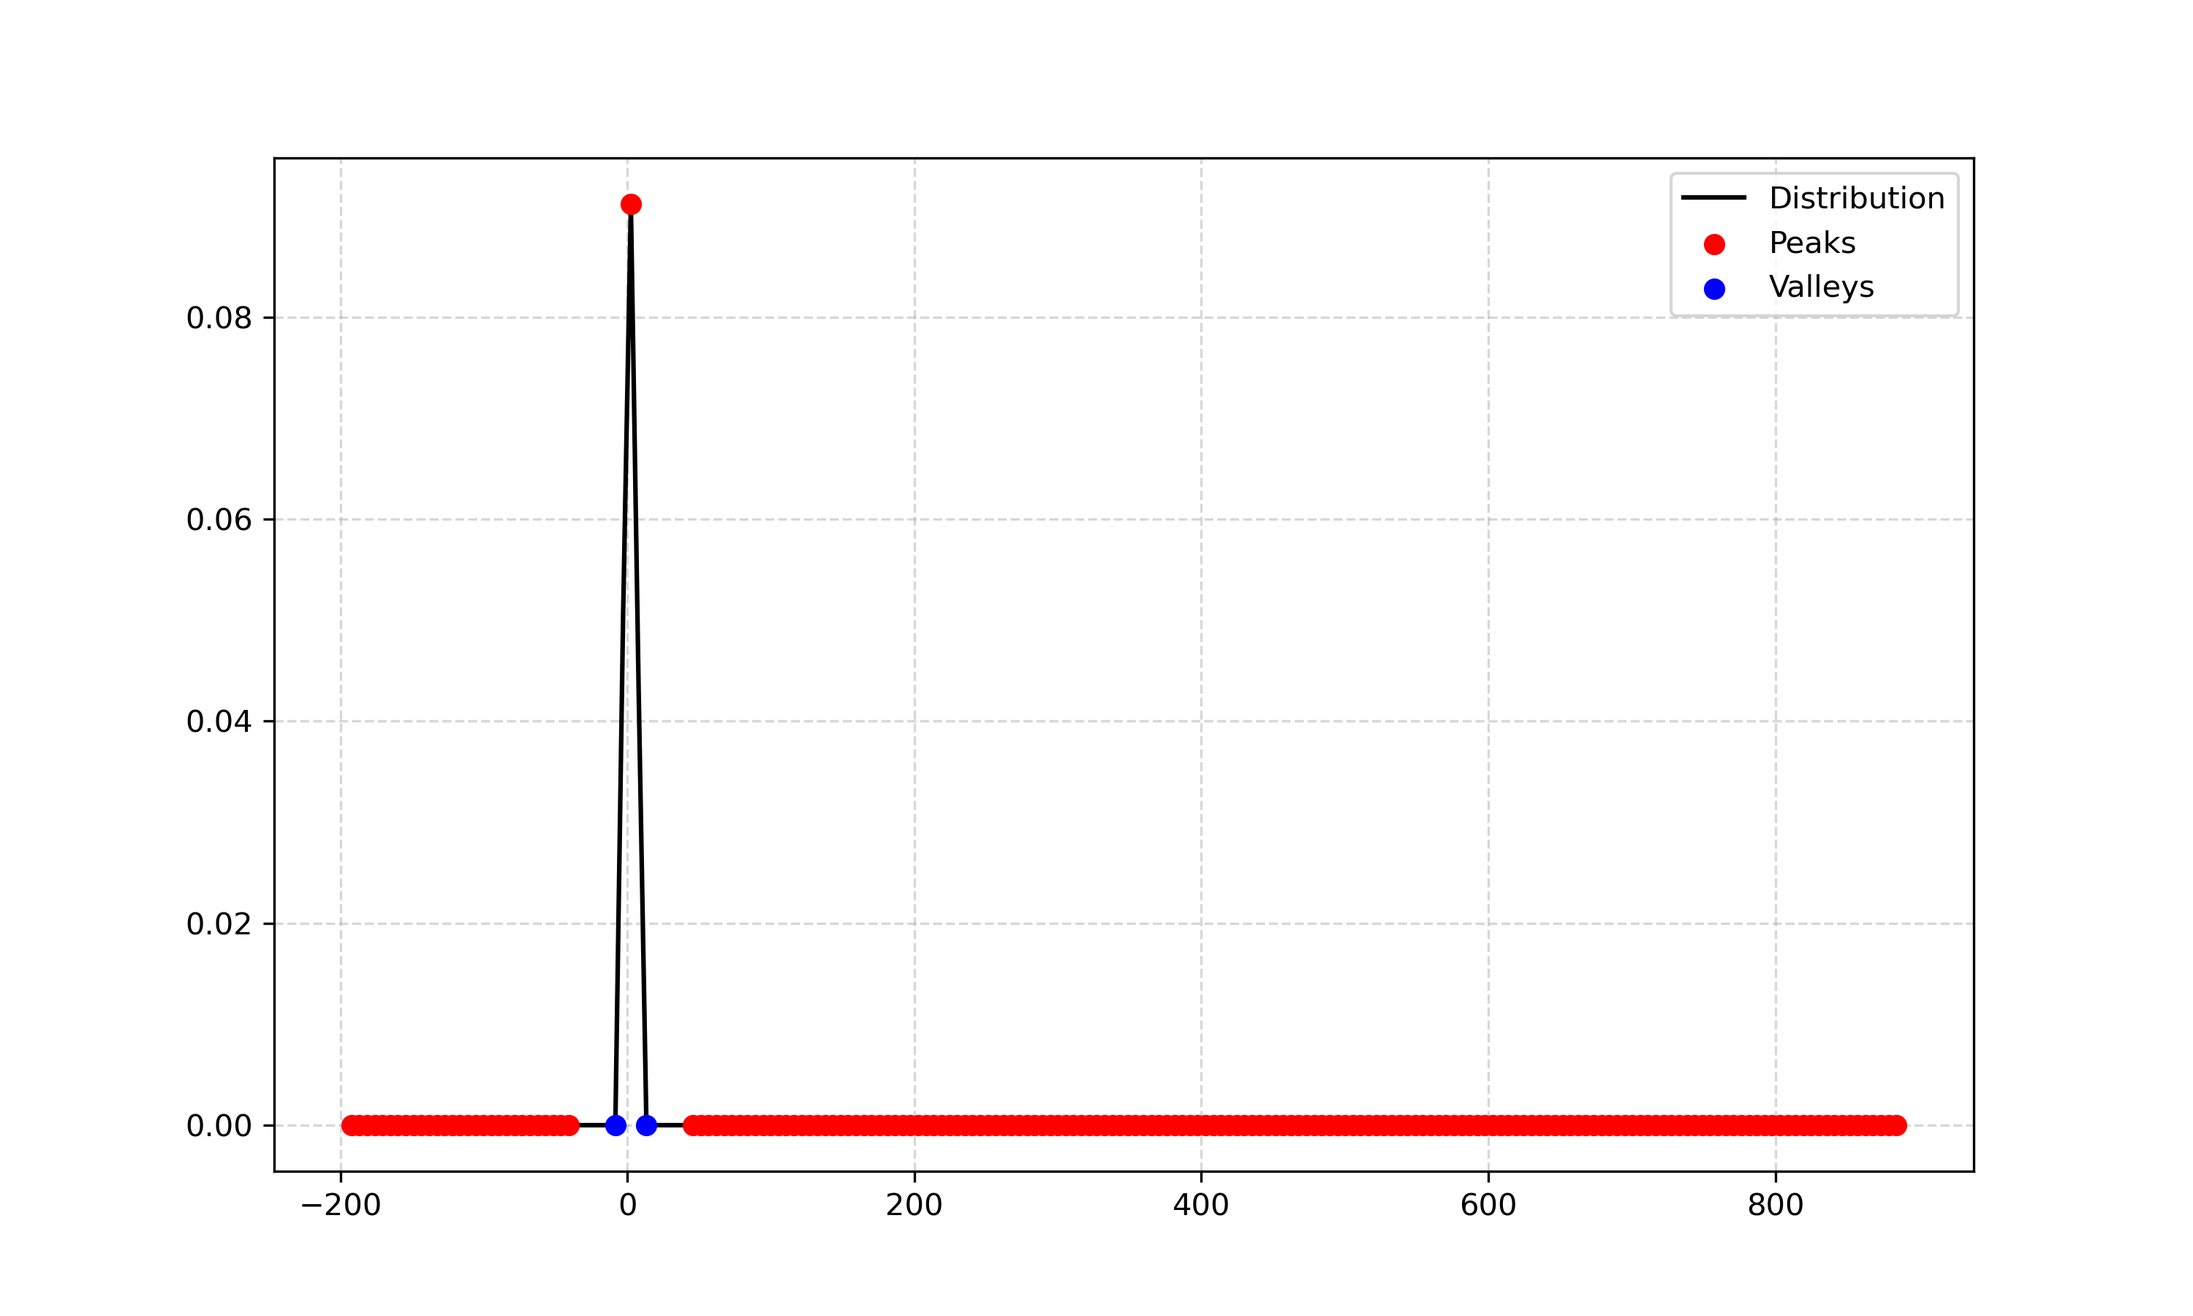
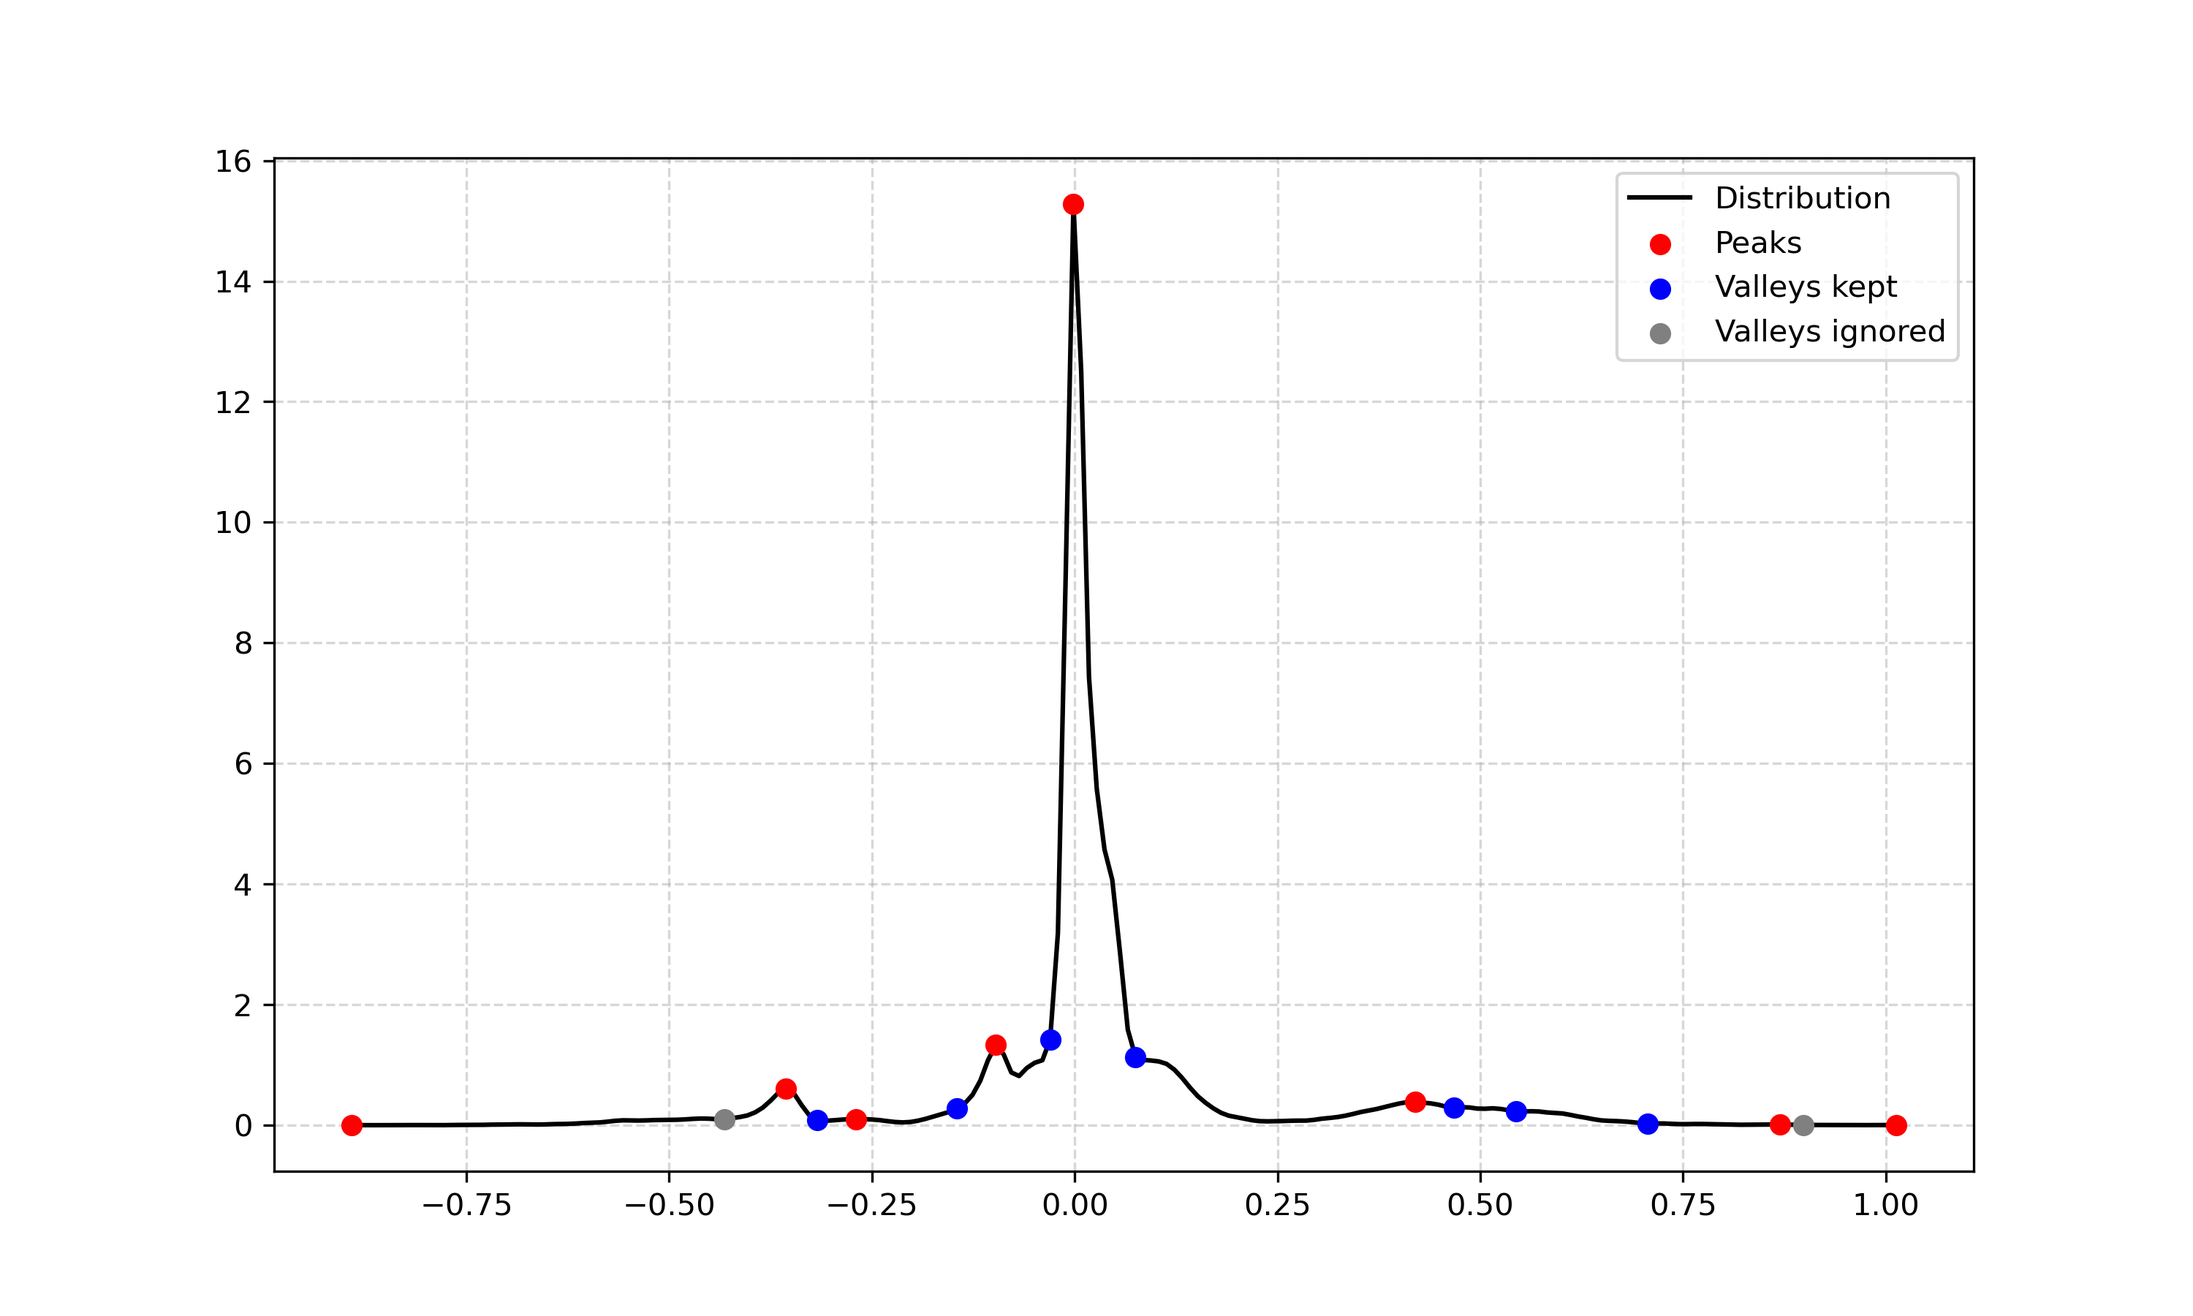
finalisation de l'algo - réglages à trouver pour valider performances

diff --git a/curvature_based_segmentation.py b/curvature_based_segmentation.py
@@ -8,6 +8,7 @@ import matplotlib.pyplot as plt
 from mpl_toolkits.mplot3d.art3d import Poly3DCollection
 from scipy.optimize import curve_fit
 from math import cos, sin, atan2
+import time
 
 #----------------------------------------------------------------------------------------------------------
 ## STEP 1 : Load STL File, Extract Vertices, their Normals, their 1-Ring Neighbours and the Mean Edge Length
@@ -134,10 +135,17 @@ def local_curvature(vertex, normal, neighbors, neighbor_normals):
     # Curve fitting to find k_max, k_min, phi_max
     def curvature_model(phi, k1, k2, phi1):
         return k1 * np.cos(phi - phi1)**2 + k2 * np.sin(phi - phi1)**2
-
-
-    res, _ = curve_fit(curvature_model, phii_list, ki_list, p0=[max(ki_list), min(ki_list), 0])
-    k_max, k_min, phi_max = res
+    try:
+        res, _ = curve_fit(
+            curvature_model,
+            phii_list,
+            ki_list,
+            p0=[max(ki_list), min(ki_list), 0],
+            maxfev=5000
+        )
+        k_max, k_min, phi_max = res
+    except Exception: # if curve fitting fails
+        k_max = max(ki_list)
 
     return k_max
 
@@ -156,8 +164,9 @@ def compute_curvatures(stl_mesh):
 
     return vertices, normalised_curvatures, index_map
 
-# Visualization of curvatures on the 3D mesh - triangles are colored according to the mean curvature of their vertices
-def plot_curvature_3d(stl_mesh):
+# Visualization of curvatures on the 3D mesh 
+# triangles are colored according to the mean curvature of their vertices
+def plot_curvature_3d_triangles(stl_mesh):
     vertices, curvatures, index_map = compute_curvatures(stl_mesh)
     v = np.array(vertices)
     k = np.array(curvatures)
@@ -187,6 +196,34 @@ def plot_curvature_3d(stl_mesh):
     cbar.set_label("Courbure principale normalisée (sans unité)")
 
     plt.show()
+# vertices are colored according to their curvature
+def plot_curvature_3d_vertices(stl_mesh):
+    # Calcul des courbures aux sommets
+    vertices, curvatures, _ = compute_curvatures(stl_mesh)
+    v = np.array(vertices)
+    k = np.array(curvatures)
+
+    # plot
+    cmap = plt.get_cmap("jet")
+    fig = plt.figure()
+    ax = fig.add_subplot(111, projection='3d')
+
+    # Coloration des sommets selon leur courbure
+    colors = cmap((k - k.min()) / (k.max() - k.min()))  # normalisation entre 0 et 1
+    ax.scatter(v[:,0], v[:,1], v[:,2], c=colors, s=10)  # s = taille des points
+
+    ax.set_xlim(v[:,0].min(), v[:,0].max())
+    ax.set_ylim(v[:,1].min(), v[:,1].max())
+    ax.set_zlim(v[:,2].min(), v[:,2].max())
+    ax.set_xlabel("X"); ax.set_ylabel("Y"); ax.set_zlabel("Z")
+
+    # Barre de couleur
+    mappable = plt.cm.ScalarMappable(cmap=cmap)
+    mappable.set_array(k)
+    cbar = plt.colorbar(mappable, ax=ax)
+    cbar.set_label("Courbure principale normalisée (sans unité)")
+
+    plt.show()
 
 #----------------------------------------------------------------------------------------------------------
 ## STEP 3 : Distribution and visualization of curvatures
@@ -205,6 +242,7 @@ def plot_curvature_distribution(curvatures, bins=50, filename="results/distibuti
 def kernel_estimation(curvatures, n_bins=50, h=0.01, filename="results/distribution_continuous.png"):
     curvatures = np.array(curvatures)
 
+    plot_curvature_distribution(curvatures, bins=n_bins, filename=f"results/distribution_discrete_n{n_bins}_h{h}.png")
     # discrete distribution over bins
     bin_edges = np.linspace(curvatures.min(), curvatures.max(), n_bins + 1)
     bin_centers = 0.5 * (bin_edges[:-1] + bin_edges[1:])
@@ -228,7 +266,7 @@ def kernel_estimation(curvatures, n_bins=50, h=0.01, filename="results/distribut
     return bin_centers, density
 
 # Analysis of the distribution : identification of peaks and valleys
-def analyze_distribution(bin_centers, density, window_size=10, n_bins=50, h=0.01):
+def analyze_distribution(curvatures, bin_centers, density, window_size=10, n_bins=50, h=0.01, min_density=0.02):
     n_bins = len(bin_centers)
 
     # Robust peaks detection : maximum in a window
@@ -297,35 +335,57 @@ def analyze_distribution(bin_centers, density, window_size=10, n_bins=50, h=0.01
             if distances[i] == np.max(distances[w_start:w_end]):
                 valleys.append(start + i)
 
+    # Filtering valleys based on minimum density
+    filtered_valleys = []
+    ignored_valleys = []
+    # première valley
+    if density[valleys[0]] >= min_density * density.max():
+        filtered_valleys.append(valleys[0])
+    else:
+        ignored_valleys.append(valleys[0])
+    # ajouts de toutes les valleys intermédiaires
+    for v in valleys[1:-1]:
+        filtered_valleys.append(v)
+    # dernière valley
+    if density[valleys[-1]] >= min_density * density.max():
+        filtered_valleys.append(valleys[-1])
+    else:
+        ignored_valleys.append(valleys[-1])
+
+
     # Visualisation of peaks and valleys
     plt.figure(figsize=(10, 6))
     plt.plot(bin_centers, density, color="black", label="Distribution")
+
     plt.scatter(bin_centers[peaks], density[peaks], color="red", label="Peaks", zorder=3)
-    plt.scatter(bin_centers[valleys], density[valleys], color="blue", label="Valleys", zorder=3)
+    plt.scatter(bin_centers[filtered_valleys], density[filtered_valleys], color="blue", label="Valleys kept", zorder=3)
+    ignored_valleys = [v for v in valleys if v not in filtered_valleys]
+    plt.scatter(bin_centers[ignored_valleys], density[ignored_valleys], color="grey", label="Valleys ignored", zorder=3)
+
     plt.legend()
     plt.grid(True, linestyle="--", alpha=0.5)
     plt.savefig(f"results/distribution_analysis_n{n_bins}_h{h}.png", dpi=300)
     plt.show()
 
-    return peaks, valleys, n_bins, h
+    return peaks, filtered_valleys, n_bins, h
 
 #----------------------------------------------------------------------------------------------------------
 ## STEP 4 : Segmentation of the Mesh Based on Curvature Thresholds
 # Automatic definition of curvature thresholds based on the distribution analysis, corresponding to the first and last valleys
-def thresholding(vertices, curvatures, n_bins=50, h=0.01, window_size=10):
+def thresholding(vertices, curvatures, n_bins=50, h=0.01, window_size=10, min_density=0.02):
     vertices = np.array(vertices)
     curvatures = np.array(curvatures)
 
     # Kernel estimation of the curvature distribution
     bin_centers, density = kernel_estimation(curvatures, n_bins=n_bins, h=h)
     # Detection of peaks and valleys
-    peaks, valleys, n_bins, h = analyze_distribution(bin_centers, density, window_size=window_size, n_bins=n_bins, h=h)
+    peaks, valleys, n_bins, h = analyze_distribution(curvatures, bin_centers, density, window_size=window_size, n_bins=n_bins, h=h, min_density=min_density)
     if len(valleys) < 2:
         raise ValueError("Pas assez de valleys.")
 
     # Thresholds based on the first and last valleys
-    first_valley_idx = valleys[1] # skip the artificial left valley
-    last_valley_idx = valleys[-2] # skip the artificial right valley
+    first_valley_idx = valleys[0] # we keep the 1st valley (artificial)
+    last_valley_idx = valleys[-1] # and the last valley
     threshold_low = bin_centers[first_valley_idx]
     threshold_high = bin_centers[last_valley_idx]
 
@@ -355,22 +415,29 @@ def thresholding(vertices, curvatures, n_bins=50, h=0.01, window_size=10):
     return labels, threshold_low, threshold_high 
 
 # Segmentation function, using a region growing algorithm
-def segmentation(stl_mesh, n_bins=50, h=0.01, window_size=10):
+def segmentation(stl_mesh, n_bins=50, h=0.01, window_size=10, min_density=0.02):
+    start_time = time.perf_counter()
     # Compute curvatures
     vertices, curvatures, index_map = compute_curvatures(stl_mesh)
     
     # Thresholding to label vertices as 'uniform' or 'edge'
-    labels, threshold_low, threshold_high = thresholding(vertices, curvatures, n_bins=n_bins, h=h, window_size=window_size)
+    labels, threshold_low, threshold_high = thresholding(vertices, curvatures, n_bins=n_bins, h=h, window_size=window_size, min_density=min_density)
 
     triangles = stl_mesh.vectors
     n_triangles = len(triangles)
+    # definition of area threshold for post-processing
+    def triangle_area(tri):
+        return 0.5 * np.linalg.norm(np.cross(tri[1] - tri[0], tri[2] - tri[0]))
+    triangle_areas = np.array([triangle_area(tri) for tri in triangles])
+    mean_triangle_area = np.mean(triangle_areas)
+    area_threshold = 20 * mean_triangle_area 
 
-    # Labelling triangles according to dominant vertex labels
+    # Labelling triangles according to vertex labels : labeled as "edge" if at least one vertex is labeled as "edge"
     triangle_labels = []
     for tri in triangles:
         indices = [index_map[tuple(v)] for v in tri]
         tri_vertex_labels = [labels[idx] for idx in indices]
-        if tri_vertex_labels.count("edge") > tri_vertex_labels.count("uniform"):
+        if tri_vertex_labels.count("edge") >= 1 :
             triangle_labels.append("edge")
         else:
             triangle_labels.append("uniform")
@@ -396,8 +463,8 @@ def segmentation(stl_mesh, n_bins=50, h=0.01, window_size=10):
     for t_idx in range(n_triangles):
         if triangle_labels[t_idx] != "uniform" or region_ids[t_idx] != -1:
             continue
-
-        # Iterative region growing using a stack
+        
+        # Region growing
         stack = [t_idx]
         while stack:
             curr = stack.pop()
@@ -410,22 +477,158 @@ def segmentation(stl_mesh, n_bins=50, h=0.01, window_size=10):
 
         current_region += 1
 
-    print(f"Nombre de régions uniform détectées : {current_region}")
+
+    # post-processing :  small regions merging (area < threshold = 20 * mean area)
+    region_ids_post = region_ids.copy()
+    unique_regions = np.unique(region_ids[region_ids >= 0])
+
+    for r in unique_regions:
+        tris = np.where(region_ids == r)[0]
+        area = triangle_areas[tris].sum()
+
+        if area < area_threshold:
+            neighbors = set()
+            for t in tris:
+                for n in triangle_neighbors[t]:
+                    if region_ids[n] != r and region_ids[n] != -1:
+                        neighbors.add(region_ids[n])
+
+            if len(neighbors) == 1:
+                # merge
+                target = neighbors.pop()
+                region_ids_post[tris] = target
+            else:
+                # suppression
+                region_ids_post[tris] = -1
+
+    region_ids = region_ids_post
+    current_region = len(np.unique(region_ids[region_ids >= 0]))
+
+    print(f"Nombre de régions après post-processing (avant érosion/dilatation) : {current_region}")
+
+    end_time = time.perf_counter()
+    print(f"Temps d'exécution : {end_time - start_time:.2f} s")
 
     # Visualization of regions
     cmap = plt.get_cmap("tab20")
-    colors = np.array([cmap(region_ids[t] % 20) if region_ids[t] != -1 else (1,0,0,1) for t in range(n_triangles)])
+    colors = []
+    for t in range(n_triangles):
+        if region_ids[t] == -1:
+            # edges ou non-classés en rouge
+            colors.append((0,0,0,0.7))  # noir avec alpha 0.7
+        else:
+            colors.append(cmap(region_ids[t] % 20))
+    colors = np.array(colors)
 
     fig = plt.figure()
     ax = fig.add_subplot(111, projection='3d')
-    poly_collection = Poly3DCollection(triangles, facecolors=colors, edgecolor='k', linewidths=0.1, alpha=0.8)
+    poly_collection = Poly3DCollection(triangles, facecolors=colors, edgecolor='k', linewidths=0.1, alpha=0.7)
     ax.add_collection3d(poly_collection)
     v = np.array(vertices)
     ax.set_xlim(v[:,0].min(), v[:,0].max())
     ax.set_ylim(v[:,1].min(), v[:,1].max())
     ax.set_zlim(v[:,2].min(), v[:,2].max())
     ax.set_xlabel("X"); ax.set_ylabel("Y"); ax.set_zlabel("Z")
-    plt.title("Segmentation par region growing : régions uniform en couleur, edges en rouge")
+    plt.title("Segmentation par region growing : régions uniformes en couleur, arêtes en noir")
+    plt.show()
+
+    # Erosions/Dilations
+    eroded = region_ids.copy()
+    for _ in range(5):  # number of erosion iterations
+        new_eroded = eroded.copy()
+        for t in range(n_triangles):
+            if eroded[t] == -1:
+                continue
+            same = sum(eroded[n] == eroded[t] for n in triangle_neighbors[t])
+            if same < 3:  
+                new_eroded[t] = -1
+
+        eroded = new_eroded
+    region_ids = eroded
+
+    region_ids = -1 * np.ones(n_triangles, dtype=int)
+    current_region = 0
+
+    for t_idx in range(n_triangles):
+        if eroded[t_idx] == -1 or region_ids[t_idx] != -1:
+            continue
+
+        stack = [t_idx]
+        while stack:
+            curr = stack.pop()
+            if region_ids[curr] != -1:
+                continue
+            region_ids[curr] = current_region
+            for nbr in triangle_neighbors[curr]:
+                if eroded[nbr] != -1 and region_ids[nbr] == -1:
+                    stack.append(nbr)
+
+        current_region += 1
+
+    # Dilatation
+    dilated = region_ids.copy()
+    for _ in range(2):  # as many iterations as erosion
+        for t in range(n_triangles):
+            if dilated[t] != -1:
+                continue
+            neighbor_regions = [
+                dilated[n] for n in triangle_neighbors[t] if dilated[n] != -1
+            ]
+            if len(neighbor_regions) == 1:
+                dilated[t] = neighbor_regions[0]
+
+    region_ids = dilated
+
+    n_regions_after = len(np.unique(region_ids[region_ids >= 0]))
+    print(f"Nombre de régions après erosion/dilatation : {n_regions_after}")
+
+    # Post-processing again : small regions merging
+    region_ids_post2 = region_ids.copy()
+    unique_regions = np.unique(region_ids_post2[region_ids_post2 >= 0])
+
+    for r in unique_regions:
+        tris = np.where(region_ids_post2 == r)[0]
+        area = triangle_areas[tris].sum()
+
+        if area < area_threshold:
+            neighbors = set()
+            for t in tris:
+                for n in triangle_neighbors[t]:
+                    if region_ids_post2[n] != r and region_ids_post2[n] != -1:
+                        neighbors.add(region_ids_post2[n])
+
+            if len(neighbors) == 1:
+                # merge with neighbor
+                target = neighbors.pop()
+                region_ids_post2[tris] = target
+            else:
+                # if multiple neighbors or isolated, mark as -1
+                region_ids_post2[tris] = -1
+
+    region_ids = region_ids_post2
+    n_regions_final = len(np.unique(region_ids[region_ids >= 0]))
+    print(f"Nombre de régions après second post-processing : {n_regions_final}")
+
+
+    # Visualization after erosion/dilation
+    colors = []
+    for t in range(n_triangles):
+        if region_ids[t] == -1:
+            colors.append((0,0,0,0.7))  # noir avec alpha 0.7
+        else:
+            colors.append(cmap(region_ids[t] % 20))
+    colors = np.array(colors)
+
+    fig = plt.figure()
+    ax = fig.add_subplot(111, projection='3d')
+    poly_collection = Poly3DCollection(triangles, facecolors=colors, edgecolor='k', linewidths=0.1, alpha=0.7)
+    ax.add_collection3d(poly_collection)
+    v = np.array(vertices)
+    ax.set_xlim(v[:,0].min(), v[:,0].max())
+    ax.set_ylim(v[:,1].min(), v[:,1].max())
+    ax.set_zlim(v[:,2].min(), v[:,2].max())
+    ax.set_xlabel("X"); ax.set_ylabel("Y"); ax.set_zlabel("Z")
+    plt.title("Segmentation par region growing après erosion/dilatation")
     plt.show()
 
     return region_ids, triangle_labels, threshold_low, threshold_high
@@ -439,14 +642,14 @@ print(f"Nombre de triangles dans le mesh : {len(stl_mesh.vectors)}")
 #vertices, normals, neighbours, mean_edge_lengths = extract_mesh_data(stl_mesh)
 #vertices, curvatures, _ = compute_curvatures(stl_mesh)
 #plot_curvature_distribution(curvatures, bins=200, filename="results/distribution_discrete_200.png")
-#plot_curvature_3d(stl_mesh)
+#plot_curvature_3d_triangles(stl_mesh)
+#plot_curvature_3d_vertices(stl_mesh)
 #bin_centers, density = kernel_estimation(curvatures, n_bins=50, h=0.01)
-#analyze_distribution(bin_centers, density)
+#analyze_distribution(curvatures, bin_centers, density)
 #labels, t_low, t_high = thresholding(vertices, curvatures, n_bins=50, h=0.01, window_size=10)
 
 # réglage de la détection des pics et vallées pour LURPart.stl : n_bins=150, h=0.005, window_size=10
-region_ids, triangle_labels, t_low, t_high = segmentation(stl_mesh, n_bins=200, h=0.01, window_size=10)
-
+region_ids, triangle_labels, t_low, t_high = segmentation(stl_mesh, n_bins=200, h=0.02, window_size=10, min_density=0.02)
 
 
 ############################################################################################
